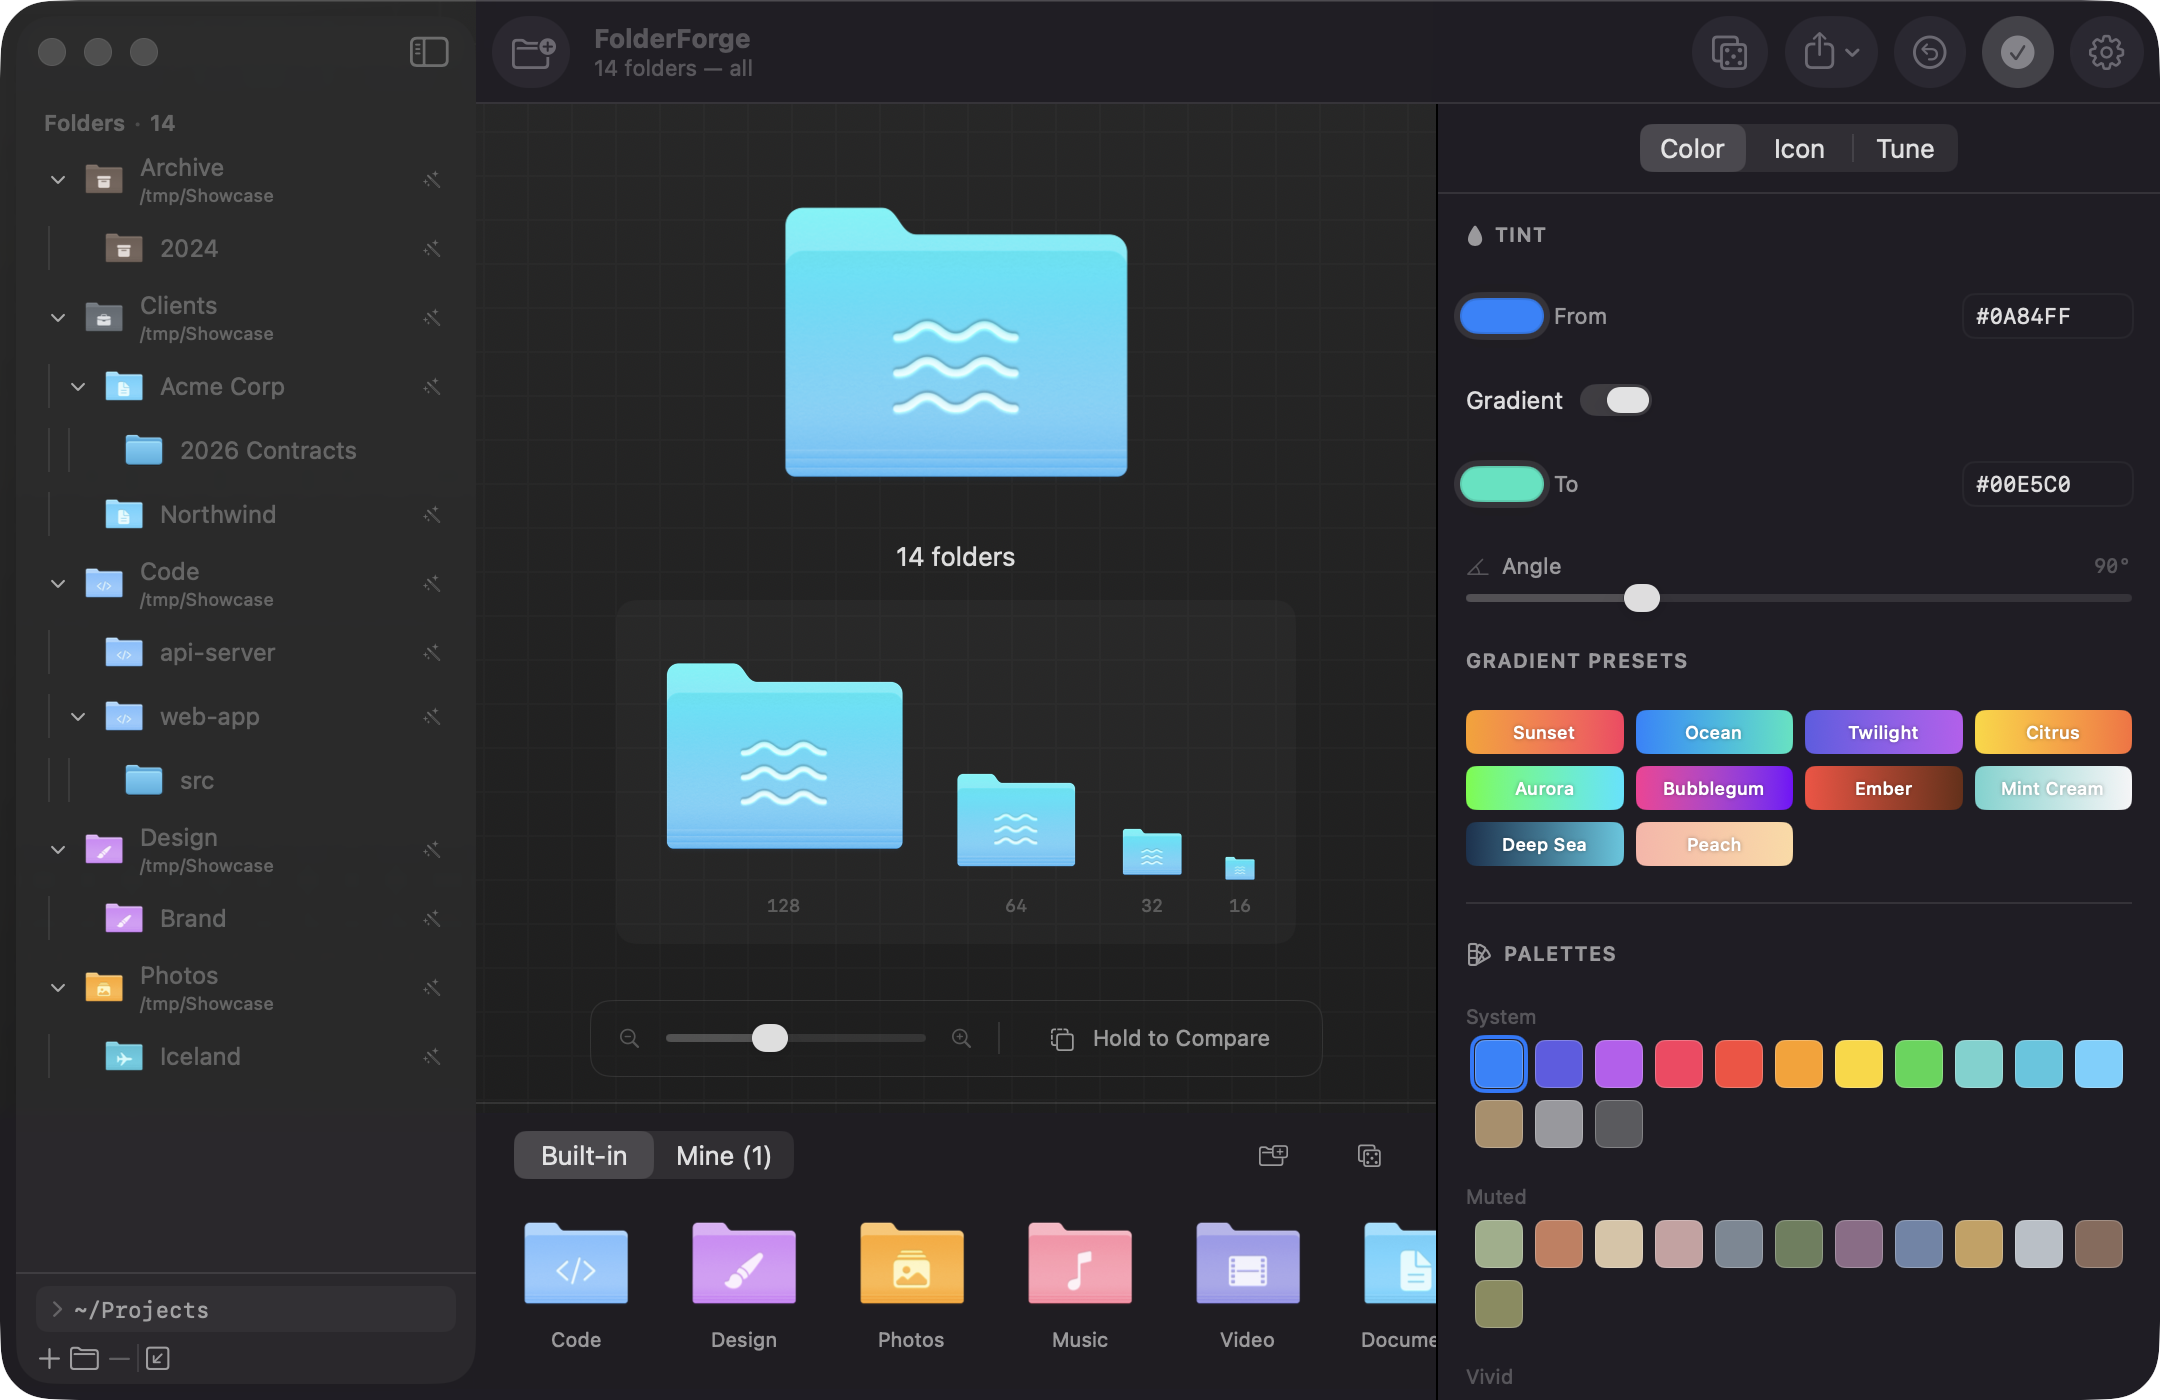
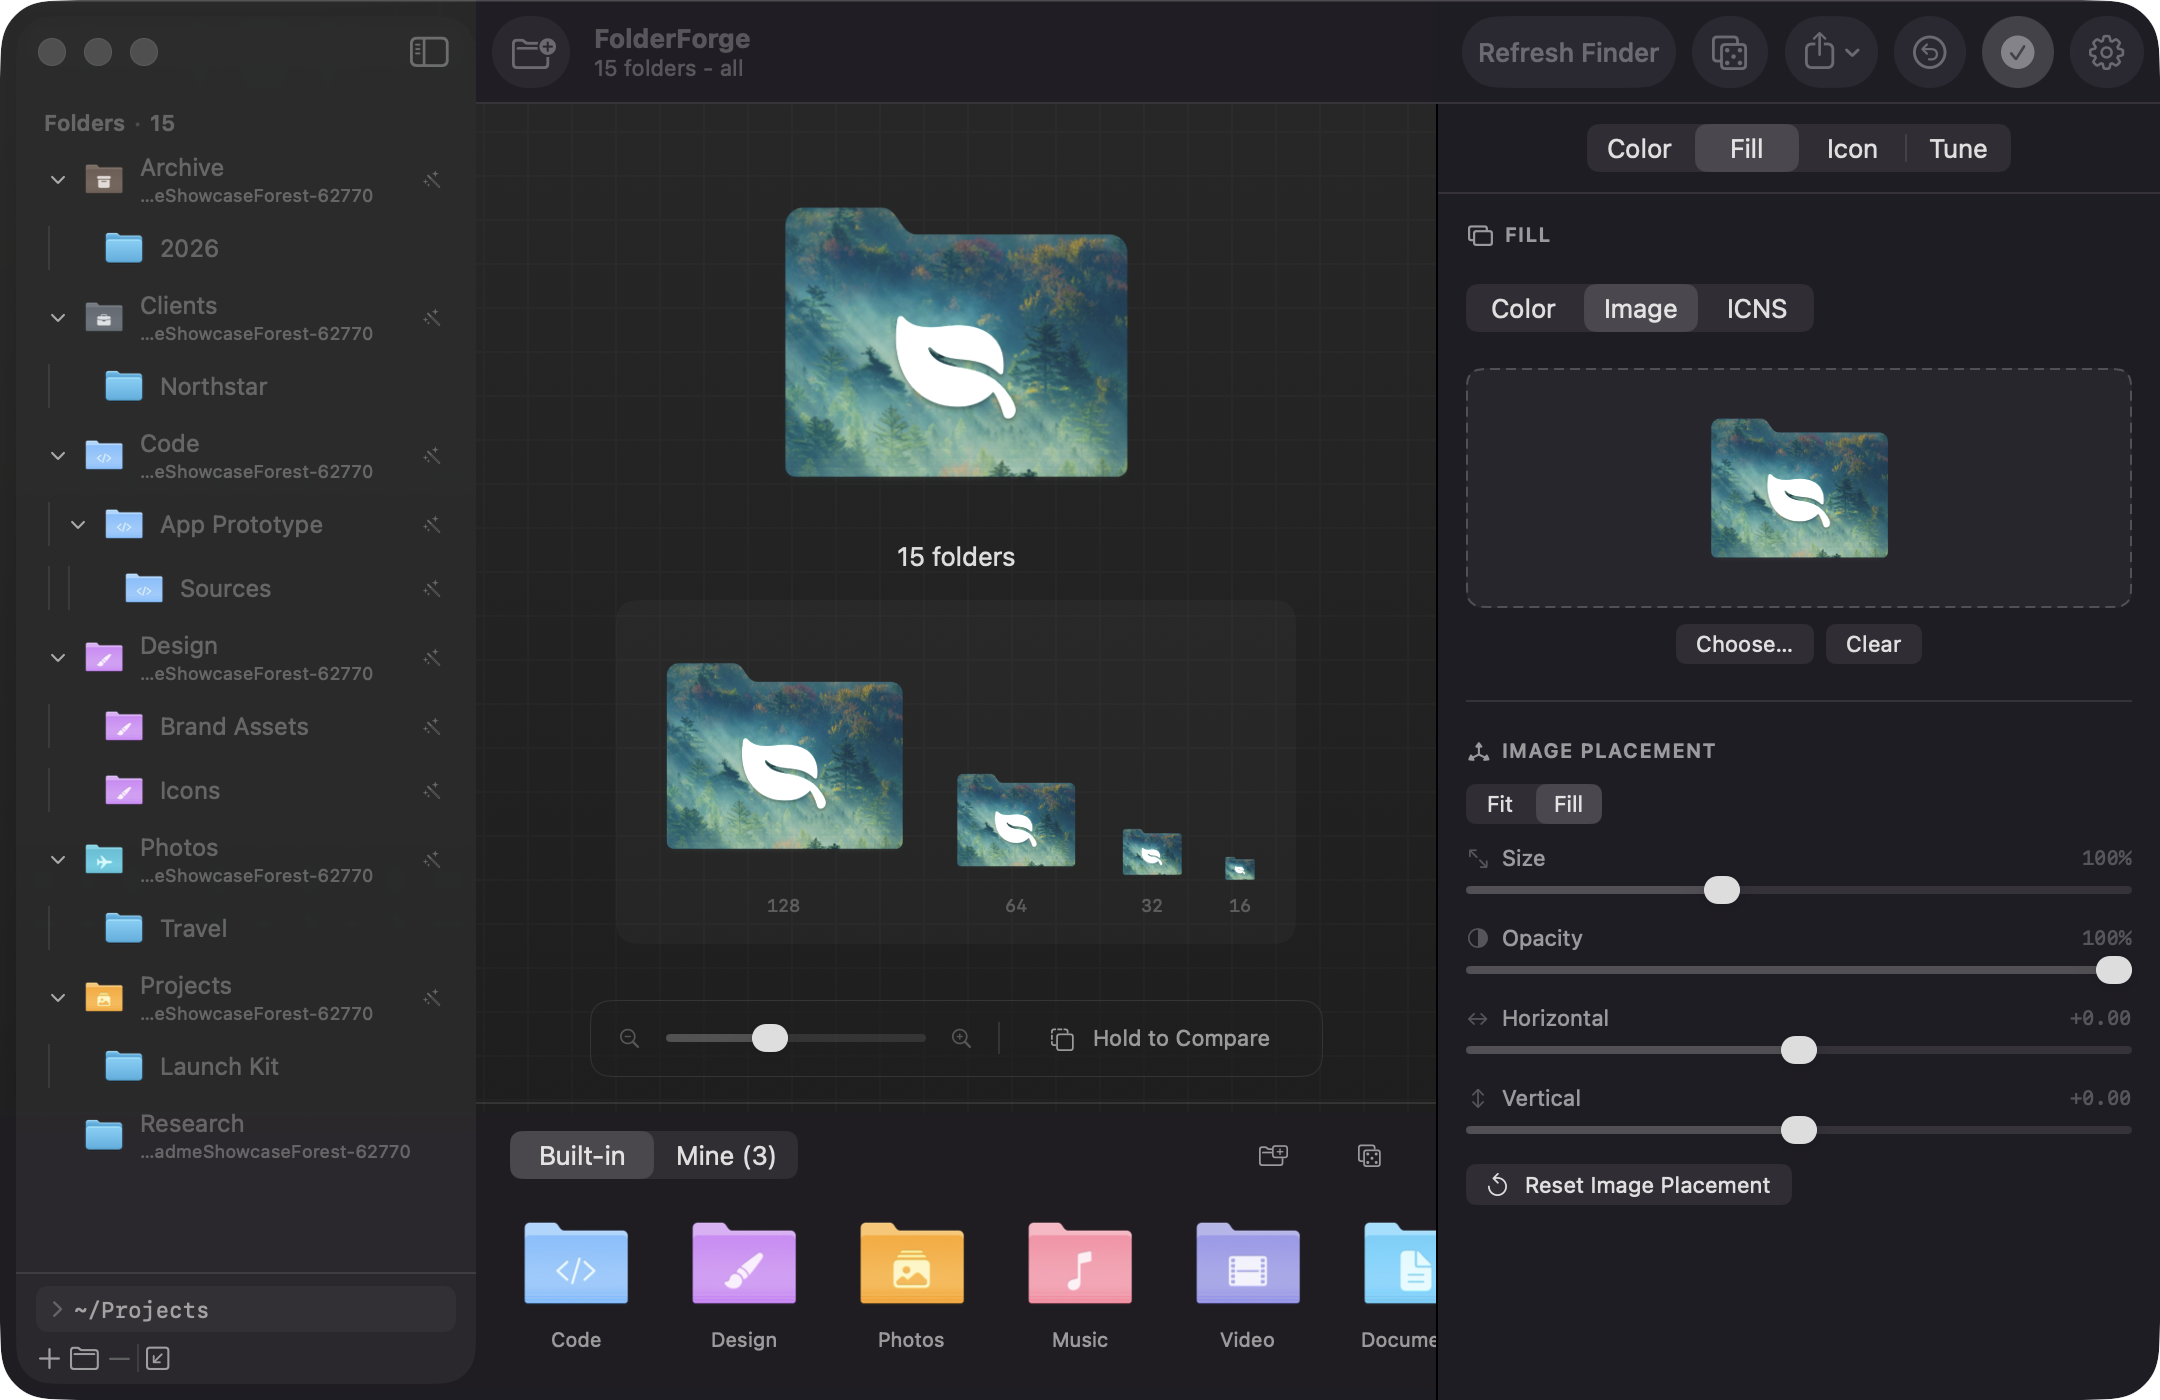
Refresh README screenshots
Update README copy and screenshots for Fill, image overlays, and ICNS imports.

diff --git a/Sources/FolderForge/Core/CLI.swift b/Sources/FolderForge/Core/CLI.swift
@@ -496,7 +496,7 @@ enum CLI {
           --symbol <sf.symbol>    SF Symbol overlay
           --emoji <emoji>         emoji overlay
           --text <string>         text overlay
-          --image <file>          image overlay, or full icon when the file is ICNS
+          --image <file>          image fill, or full icon when the file is ICNS
           --finish <name>         engraved | tinted | natural | stamped | raised
           --base <name>           generic | documents | downloads | …
           --scale <0…1>           overlay size

diff --git a/screenshots/README.md b/screenshots/README.md
@@ -6,10 +6,11 @@ so no real paths or personal folder names appear in the docs.
 | File               | Shows                                                     | How it was made                    |
 | ------------------ | --------------------------------------------------------- | ---------------------------------- |
 | `hero.png`         | FolderForge folders plus an external ICNS icon.             | App exports composed with `magick`.|
-| `main-window.png`  | The full app: sidebar tree, preview, inspector.            | `--ui-snapshot`                    |
+| `main-window.png`  | The full app: sidebar tree, preview, Fill inspector.       | `--ui-snapshot --tab fill`         |
 | `sidebar-tree.png` | The sidebar with nesting and indent guides.                | Cropped from `main-window.png`.    |
-| `inspector.png`    | The inspector — custom ICNS as a whole folder icon.         | Cropped from `--tab icon`.         |
-| `icns-import.png`  | External ICNS applied as the whole folder icon.             | Cropped from `--icon`.             |
+| `fill-image.png`   | Image Fill mode with placement controls.                   | Cropped from `--tab fill --image`. |
+| `icon-overlay.png` | Overlay controls on top of an image fill.                  | Cropped from `--tab icon --image`. |
+| `icns-fill.png`    | External ICNS applied as the whole folder icon.             | Cropped from `--image file.icns`.  |
 | `add-folders.png`  | The Add Folders sheet: depth, exclusions, match preview.   | `--ui-snapshot --view sheet`       |
 | `presets.png`      | The built-in presets.                                     | `--contact-sheet`                  |
 | `finishes.png`     | Every finish across several tints.                         | `--contact-sheet --finishes`       |
@@ -22,7 +23,13 @@ screenshot. Build it, style it, then shoot:
 ```bash
 BIN="$(swift build --show-bin-path)/FolderForge"
 D=/tmp/Showcase
-ICON=/path/to/downloaded-icon.icns
+ART=/tmp/folderforge-readme-gradient.png
+ICON=dist/FolderForge.app/Contents/Resources/AppIcon.icns
+
+magick -size 1200x760 gradient:'#66D9FF-#FF7A45' \
+  \( -size 900x570 radial-gradient:'rgba(255,255,255,0.95)-rgba(255,255,255,0)' \) -gravity northwest -geometry +70+20 -compose screen -composite \
+  \( -size 720x520 radial-gradient:'#FFD36E-#1B1028' \) -gravity southeast -geometry +0+0 -compose overlay -composite \
+  "$ART"
 
 for d in "Clients/Acme Corp" "Clients/Acme Corp/2026 Contracts" "Clients/Northwind" \
          "Code/api-server" "Code/web-app" "Code/web-app/src" \
@@ -36,16 +43,17 @@ for d in "Clients/Acme Corp" "Clients/Acme Corp/2026 Contracts" "Clients/Northwi
 "$BIN" --apply "$D/Photos/Iceland" --preset Travel
 
 FOLDERS=$(find "$D" -type d ! -path "$D" | sort | paste -sd, -)
-"$BIN" --ui-snapshot main-window.png --width 1080 --height 700 --folders "$FOLDERS"
+"$BIN" --ui-snapshot main-window.png --width 1080 --height 700 --folders "$FOLDERS" --tab fill --image "$ART" --symbol sparkles --finish raised
 "$BIN" --ui-snapshot add-folders.png --width 560 --height 780 --view sheet --path "$D"
-"$BIN" --ui-snapshot inspector-source.png --width 1080 --height 700 --tab icon --overlay icns --folders "$FOLDERS"
-"$BIN" --ui-snapshot icns-import-source.png --width 1080 --height 700 --folders "$FOLDERS" --icon "$ICON"
+"$BIN" --ui-snapshot icon-overlay-source.png --width 1080 --height 700 --tab icon --folders "$FOLDERS" --image "$ART" --symbol wand.and.sparkles --finish raised
+"$BIN" --ui-snapshot icns-fill-source.png --width 1080 --height 700 --tab fill --folders "$FOLDERS" --image "$ICON"
 "$BIN" --contact-sheet presets.png --columns 8 --cell 180
 "$BIN" --contact-sheet finishes.png --finishes --columns 6 --cell 200
 
 magick main-window.png -crop 480x1120+0+0  +repage sidebar-tree.png
-magick inspector-source.png -crop 724x1400+1436+0 +repage inspector.png
-magick icns-import-source.png -crop 1680x1400+480+0 +repage -resize 1200x1000\> icns-import.png
+magick main-window.png -crop 724x1400+1436+0 +repage fill-image.png
+magick icon-overlay-source.png -crop 724x1400+1436+0 +repage icon-overlay.png
+magick icns-fill-source.png -crop 724x1400+1436+0 +repage icns-fill.png
 magick presets.png     -crop 1440x808+0+0  +repage presets.png
 magick finishes.png    -crop 600x1110+0+0  +repage finishes.png
 ```

diff --git a/README.md b/README.md
@@ -8,8 +8,9 @@
 </table>
 
 **A macOS folder icon designer.**
-Pick a color, drop on a symbol, emoji, image or custom ICNS, and write it straight to your
-folders — with a one-click path back to the originals.
+Pick a color or image fill, layer on a symbol, emoji or text overlay, or import a complete
+custom ICNS — then write it straight to your folders with a one-click path back to the
+originals.
 
 ![macOS 14+](https://img.shields.io/badge/macOS-14%2B-black?style=flat-square&logo=apple)
 ![Swift 5.9](https://img.shields.io/badge/Swift-5.9-F05138?style=flat-square&logo=swift&logoColor=white)
@@ -145,31 +146,42 @@ FolderForge touches a folder, it snapshots whatever icon was already there.
 
 ## What you can change
 
-<!-- 📸 screenshots/inspector.png -->
-
-![Inspector](screenshots/inspector.png)
-
 ### Color
 
 Any color, or a two-color gradient at any angle. 60+ curated swatches and 10 gradient
 presets. Tint strength blends back toward the stock macOS blue.
 
-### Icon — 300+ SF Symbols, emoji, text, images or custom ICNS
+### Fill — color, image or complete ICNS
 
-Choose from:
+Fill controls what the folder face is made from:
 
-- searchable SF Symbols
-- emoji
-- short text
-- regular images placed on the folder canvas
-- custom `.icns` files used as the whole folder icon
+- **Color** uses the Color tab's tint or gradient.
+- **Image** places PNG/JPG-style artwork inside the folder shape.
+- **ICNS** imports a complete `.icns` file as the whole folder icon.
 
-Images can be sized, faded, rotated and positioned freely. ICNS files stay complete: they
-replace the folder icon instead of becoming an overlay.
+Image fills can be fit or filled, faded, dragged into position and reset without touching the
+overlay controls.
 
-External downloaded `.icns` files apply as complete icons:
+![Image fill controls](screenshots/fill-image.png)
 
-![External ICNS import](screenshots/icns-import.png)
+### Icon — 300+ SF Symbols, emoji or text overlays
+
+The Icon tab now stays focused on overlays. Choose searchable SF Symbols, emoji or short text,
+then tune placement and finish separately from the fill underneath. That means an image fill can
+still carry a symbol, emoji or label on top.
+
+![Overlay controls](screenshots/icon-overlay.png)
+
+External downloaded `.icns` files are different: they apply as complete icons rather than
+editable overlays. Once an ICNS is loaded, Color, Icon and Tune controls are disabled because
+there is no folder canvas left to edit.
+
+![ICNS fill import](screenshots/icns-fill.png)
+
+### Finishes
+
+Finishes decide how overlays sit on the folder: carved in, stamped on, raised above the
+surface, or kept in their natural colors.
 
 <!-- 📸 screenshots/finishes.png -->
 
@@ -183,9 +195,9 @@ External downloaded `.icns` files apply as complete icons:
 | **Stamped**  | Dark ink pressed into the folder.                              |
 | **Raised**   | Bright and glossy, floating above with a soft shadow.          |
 
-Emoji and images carry their own colors, so picking one switches the finish to **Natural**
-automatically — a masked finish would flatten them to white silhouettes. ICNS files are
-applied as complete icons. Switching back to a symbol restores **Engraved**.
+Emoji and image fills carry their own colors, so they use **Natural** rendering where masking
+would flatten the artwork. ICNS files are applied as complete icons. Switching back to a symbol
+restores **Engraved**.
 
 ### Tune
 
@@ -271,7 +283,7 @@ Every style flag from `--help` works with `--apply`, `--export` and `--iconset`.
 ### Development aids
 
 ```bash
-FolderForge --ui-snapshot out.png --width 900 --height 620 [--view main|sheet] [--tab color|icon|tune] [--overlay icns] [--icon file.icns]
+FolderForge --ui-snapshot out.png --width 900 --height 620 [--view main|sheet] [--tab color|fill|icon|tune] [--image file.png] [--icon file.icns]
 FolderForge --debug-selection <folder...>
 ```
 
